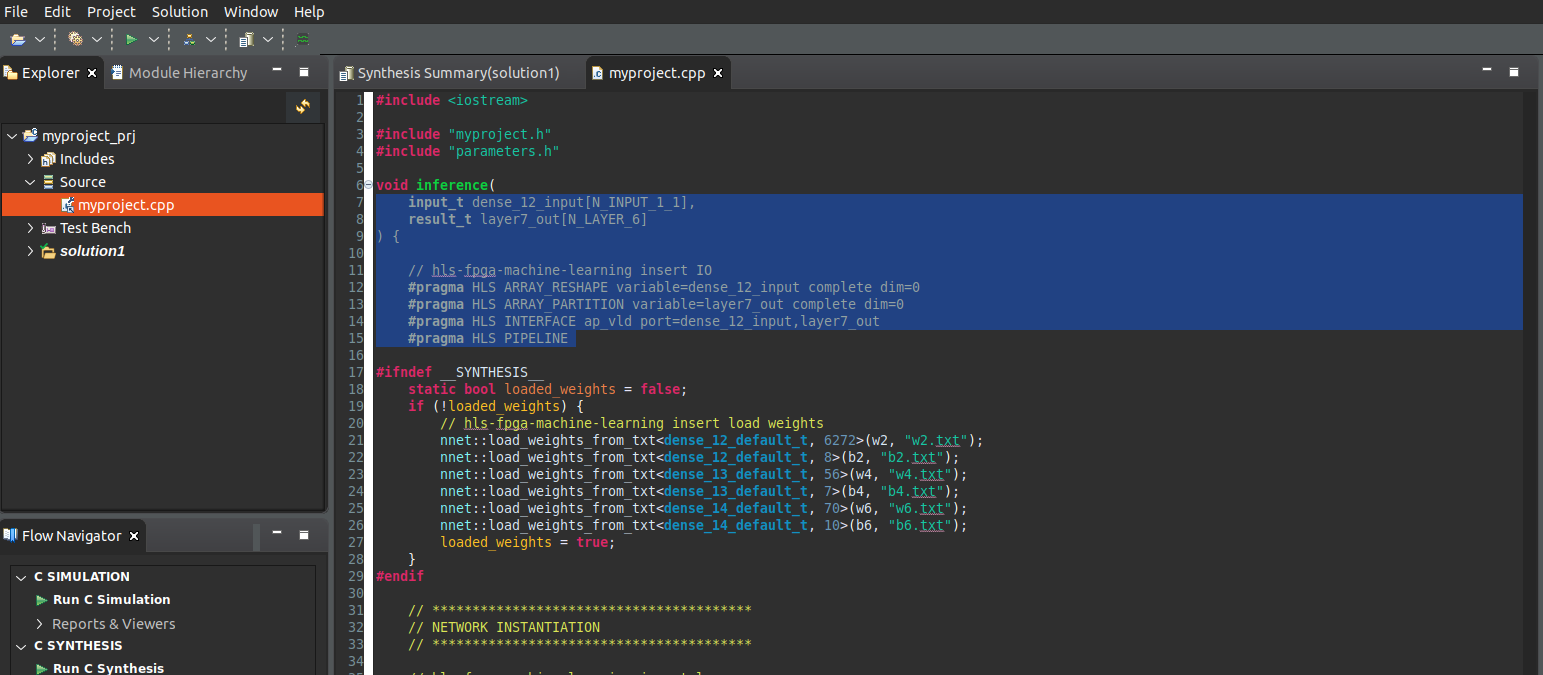
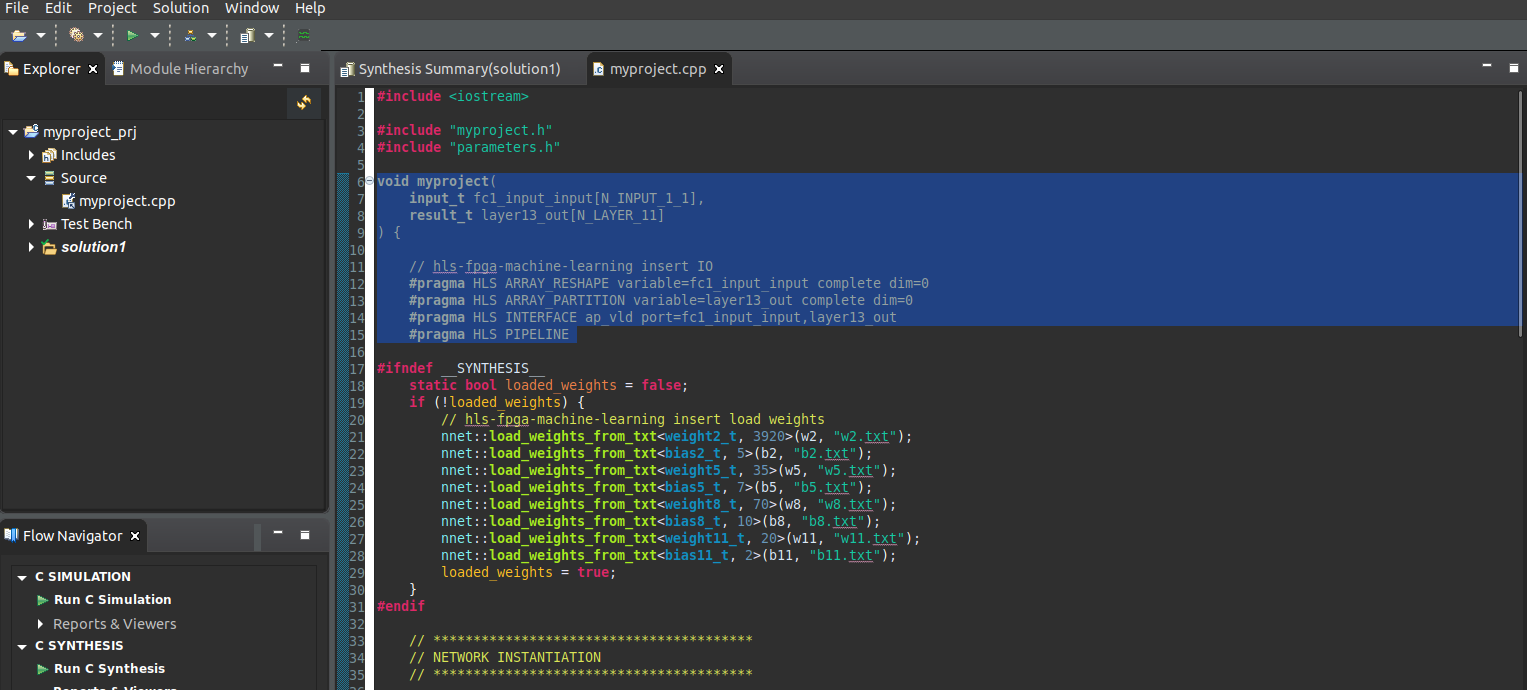
Fixed lab07

Changed region(s): [[0.0, 0.0, 1.0, 1.0]]

diff --git a/labs/lab07/07-hls4ml-integration.md b/labs/lab07/07-hls4ml-integration.md
@@ -118,7 +118,7 @@ La configuración debería verse como en la siguiente imagen.
         #pragma HLS INTERFACE axis register both port=input
         #pragma HLS INTERFACE ap_vld port=result register
         // #pragma HLS PIPELINE
-    }
+    
     ```
     
     Reemplazando las partes seleccionadas en el archivo **myproject.cpp**.
@@ -130,7 +130,7 @@ La configuración debería verse como en la siguiente imagen.
 6. Archivo **myproject_test.cpp** (test bench)
 
 - Ve a la carpeta **/home/student/Documents/cursoML2025/git/trainingMDQ2025/labs/lab07/src_hls**. 
-- Copia el archivo **myproject_test.cpp** en la carpeta **/home/student/Documents/cursoML2025/labs/lab05/hlsPrj/myproject_prj**. 
+- Copia el archivo **myproject_test.cpp** en la carpeta **/home/student/Documents/cursoML2025/labs/lab05/hlsPrj/**. 
 - Esto reemplazará el archivo precedente.
 
 7. Archivo **myproject.h**
@@ -138,13 +138,6 @@ La configuración debería verse como en la siguiente imagen.
 - Ve a la carpeta **/home/student/Documents/cursoML2025/git/trainingMDQ2025/labs/lab07/src_hls**.
 - Copia el archivo myproject.h en la carpeta: **/home/student/Documents/cursoML2025/labs/lab05/hlsPrj/myproject_prj/firmware**.
 - Esto reemplazará el archivo precedente.
-
-<!-- 
-8. Archivo **defines.h** 
-
-- Ve a la carpeta: **/home/student/Documents/cursoML2025/git/trainingMDQ2025/labs//lab07/src_hls**.
-- Copia el archivo defines.h en la carpeta **/home/student/Documents/cursoML2025/labs/lab05/hlsPrj/myproject_prj/firmware**. 
-- Esto reemplazará el archivo precedente. -->
 
 
 10. En Vitis HLS, en el panel **Explorer**, abre el archivo **Source -> myproject.cpp**. 
@@ -154,7 +147,7 @@ La configuración debería verse como en la siguiente imagen.
 
     ```c
 	input_t fc1_input_input[N_INPUT_1_1];
-    result_t layer10_out[N_LAYER_6];
+    result_t layer13_out[N_LAYER_11];
 
     axis_int_t val;
 
@@ -169,24 +162,15 @@ La configuración debería verse como en la siguiente imagen.
     		}	
     ```
 
-    El código anterior debe colocarse después de la línea **#endif** (línea número 36) en el archivo **myproject.cpp**.
+    El código anterior debe colocarse después de la línea **#endif** (línea número 32) en el archivo **myproject.cpp**.
 
     ![alt text](../img/lab07/HLS_change2.png)
 
-
-    🔴 In this part of the code, change the variable **input_2** for **fc1_input_input**. 
-    
-    ```c
-    nnet::dense<input_t, layer2_t, config2>(fc1_input_input, layer2_out, w2, b2); // fc1
-    ```
-
-    >**Noae:**  La variable podría llamarse **input_2** o algo diferente. Esto depende de cómo **hls4ml** haya exportado el modelo.
-
-    🔴 El siguiente código permite generar la salida con los resultados de la clasificaión. **Esta manera es válida solo si está usando el modelo..  De lo contrario, debe ADAPTAR la segunda opción**
+    🔴 El siguiente código permite generar la salida con los resultados de la clasificaión. **Esta manera es válida solo si está usando el modelo generado en el demo de MNIST QAP. De lo contrario, debe UTILIZAR y ADAPTAR la segunda opción**
 
      ```c
         // Opción 1
-            if(layer8_out[1] < 0){
+            if(layer12_out[1] < 0){
                 *result = 1;
             } else{
                 *result = 9;
@@ -196,7 +180,7 @@ La configuración debería verse como en la siguiente imagen.
 
     ```c
         // Opción 2
-            if(layer10_out[0] > 0.5){
+            if(layer13_out[0] > 0.5){
             // result tiene el valor de la clase (del tipo int) que desea mostrar por la terminal.
                 *result = 1;
             } else{
@@ -205,7 +189,7 @@ La configuración debería verse como en la siguiente imagen.
 
     ```
     
-    Agrega el código anterior antes de **\}** (última linea) en el archivo **myproject.cpp**.
+    Agrega el código anterior antes de **\}** (última línea) en el archivo **myproject.cpp**.
 
     ![alt text](../img/lab07/HLS_change3.png)
 
